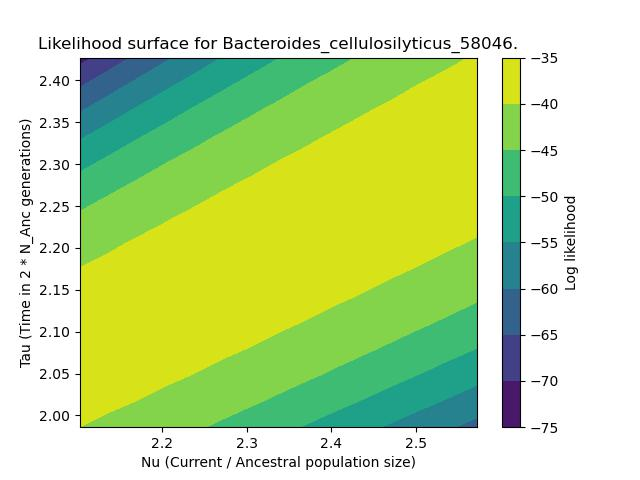
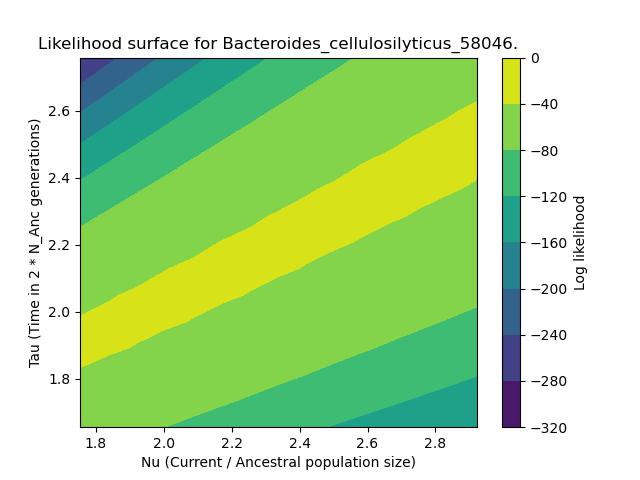
B. cell test

diff --git a/Scripts/plot_likelihood.py b/Scripts/plot_likelihood.py
@@ -477,8 +477,8 @@ class PlotLikelihood():
                 # y_range = numpy.linspace(y * 0.95, y * 1.05, npts)
                 
                 # Oscillibacter species
-                x_range = numpy.linspace(x * 0.9, x * 1.1, npts)
-                y_range = numpy.linspace(y * 0.9, y * 1.1, npts)
+                x_range = numpy.linspace(x * 0.75, x * 1.25, npts)
+                y_range = numpy.linspace(y * 0.75, y * 1.25, npts)
 
                 X, Y = numpy.meshgrid(x_range, y_range)
 
